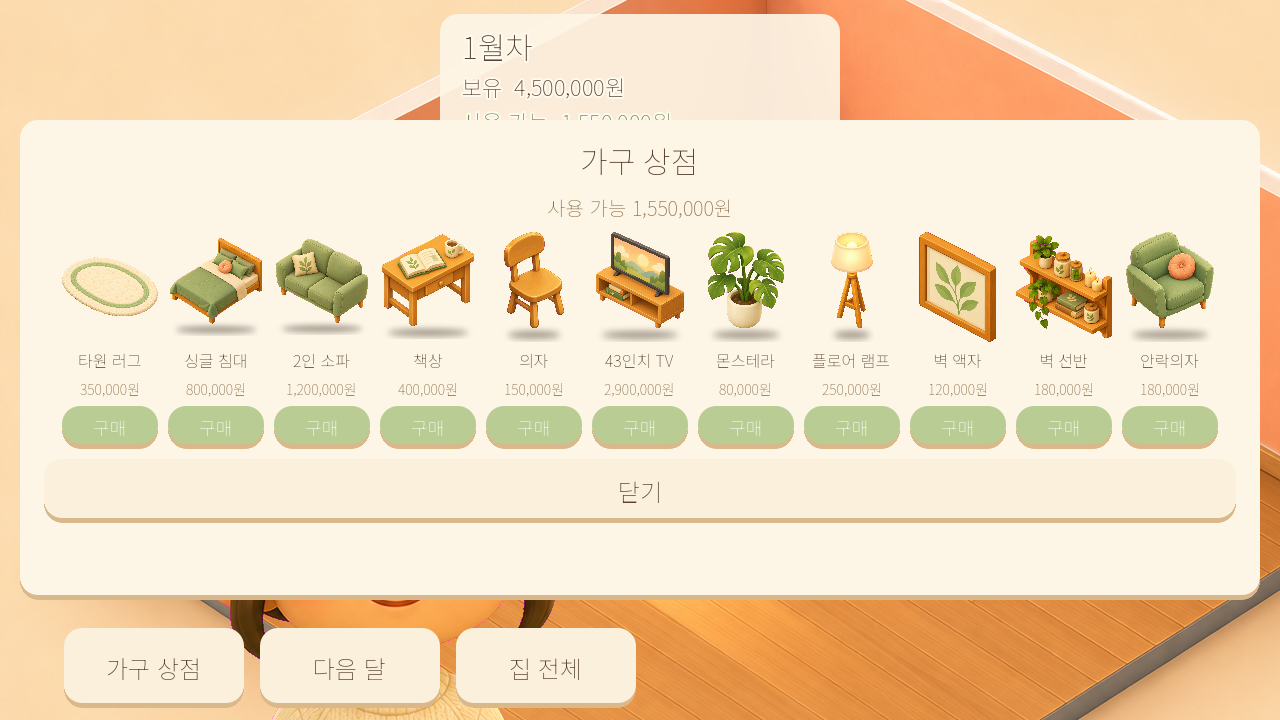
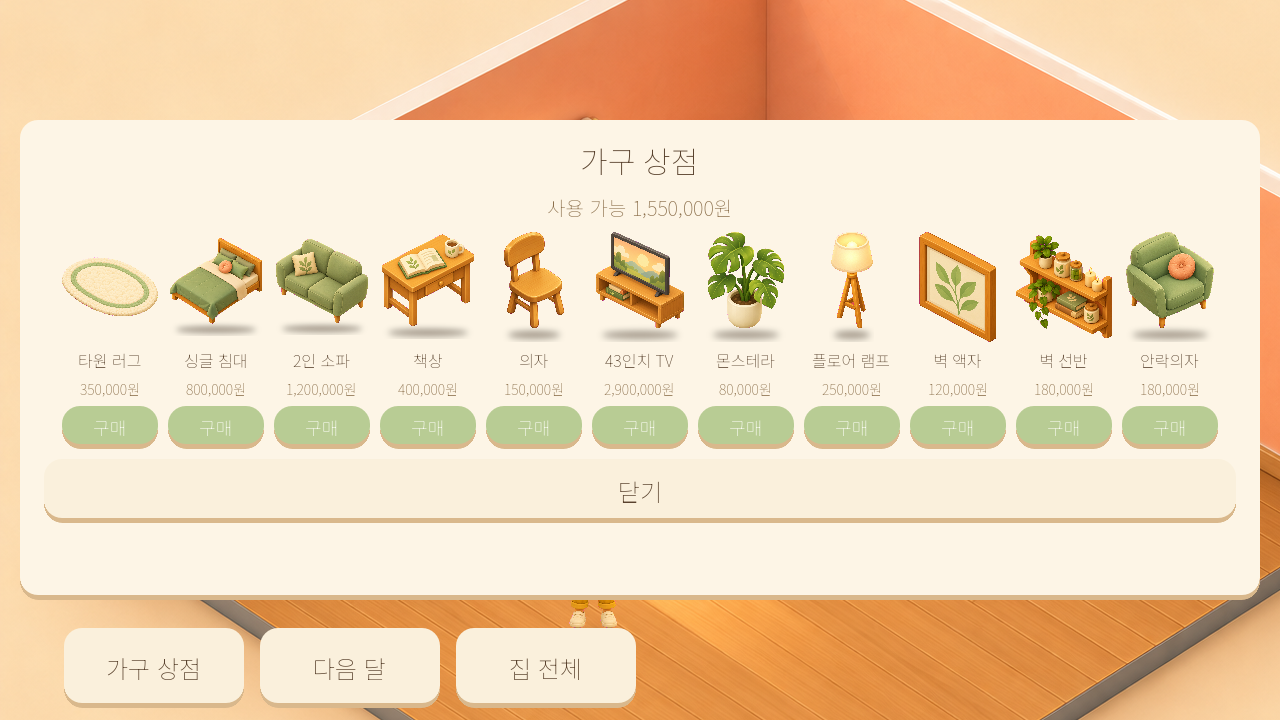
배치 완성: TextureRect expand_mode 버그 수정(원본크기로 렌더되던 것 → 슬롯 스케일 적용) + 슬롯 재설계(액자 침대위/선반 HUD하단/캐릭터 전면중앙/좌벽그룹 착지 보정) + 상점 열때 HUD 숨김 — 전체 가구 배치 비전 검증 6/6 PASS

diff --git a/game/tools/build_gpt_sprites.py b/game/tools/build_gpt_sprites.py
@@ -24,21 +24,21 @@ ROOM_W_PX, ROOM_H_PX = 1346, 1046  # empty 방 bbox 크기
 # id: (name, grid_w, grid_h, price, slot_x, slot_y, layer, shadow)
 # slot = 방 bbox 기준 분수 (앵커: 가구 바닥 중앙). layer: floor(러그) < normal < wall
 SLOTS = {
-    "rug_oval":       ("타원 러그", 6, 4, 350_000, 0.44, 0.62, "floor", False),
+    "rug_oval":       ("타원 러그", 6, 4, 350_000, 0.40, 0.68, "floor", False),
     "bed_single":     ("싱글 침대", 4, 8, 800_000, 0.62, 0.63, "normal", True),
-    "sofa_two":       ("2인 소파", 6, 3, 1_200_000, 0.20, 0.56, "normal", True),
-    "desk_small":     ("책상", 5, 2, 400_000, 0.46, 0.40, "normal", True),
+    "sofa_two":       ("2인 소파", 6, 3, 1_200_000, 0.15, 0.58, "normal", True, 0.85),
+    "desk_small":     ("책상", 5, 2, 400_000, 0.46, 0.42, "normal", True),
     "chair_basic":    ("의자", 2, 2, 150_000, 0.49, 0.47, "normal", True),
-    "tv_43":          ("43인치 TV", 4, 2, 2_900_000, 0.83, 0.50, "normal", True),
-    "plant_monstera": ("몬스테라", 2, 2, 80_000, 0.09, 0.50, "normal", True),
-    "floor_lamp":     ("플로어 램프", 2, 2, 250_000, 0.70, 0.50, "normal", True),
-    "picture_frame":  ("벽 액자", 2, 2, 120_000, 0.42, 0.20, "wall", False),
-    "wall_shelf":     ("벽 선반", 4, 1, 180_000, 0.56, 0.13, "wall", False),
-    "armchair":       ("안락의자", 2, 2, 180_000, 0.27, 0.46, "normal", True),
+    "tv_43":          ("43인치 TV", 4, 2, 2_900_000, 0.85, 0.44, "normal", True),
+    "plant_monstera": ("몬스테라", 2, 2, 80_000, 0.12, 0.46, "normal", True),
+    "floor_lamp":     ("플로어 램프", 2, 2, 250_000, 0.08, 0.66, "normal", True, 0.85),
+    "picture_frame":  ("벽 액자", 2, 2, 120_000, 0.72, 0.26, "wall", False),
+    "wall_shelf":     ("벽 선반", 4, 1, 180_000, 0.60, 0.32, "wall", False),
+    "armchair":       ("안락의자", 2, 2, 180_000, 0.36, 0.68, "normal", True),
 }
 
 # 캐릭터 (구매 아님, 상시 배치)
-CHAR = {"c_idle": (0.13, 0.60)}
+CHAR = {"c_idle": (0.45, 0.80)}
 
 
 def keyout_magenta(src_path):
@@ -81,13 +81,15 @@ os.makedirs(r'D:/works/realestate/game/assets/concept_room', exist_ok=True)
 # 방 배경 복사 (Godot 임포트용)
 Image.open(os.path.join(SRC, 'room_empty.png')).save(r'D:/works/realestate/game/assets/concept_room/room_empty.png')
 
-for fid, (name, gw, gh, price, sx, sy, layer, shadow) in SLOTS.items():
+for fid, slot_def in SLOTS.items():
+    name, gw, gh, price, sx, sy, layer, shadow = slot_def[:8]
+    scl = slot_def[8] if len(slot_def) > 8 else 1.0
     img = keyout_magenta(os.path.join(SRC, f'f_{fid}.png'))
     if shadow:
         img = bake_shadow(img)
     img.save(os.path.join(OUT, f'f_{fid}.png'))
     # 화면 폭: (gw+gh) 대각 성분 × 셀당 px × 등각 보정 0.35
-    width_px = int((gw + gh) * PX_PER_CELL * 0.35)
+    width_px = int((gw + gh) * PX_PER_CELL * 0.35 * scl)
     meta["items"][fid] = {
         "name": name, "price": price, "grid": [gw, gh],
         "slot": [sx, sy], "layer": layer, "width_px": width_px,
@@ -100,7 +102,7 @@ for cid, (sx, sy) in CHAR.items():
     img = bake_shadow(keyout_magenta(os.path.join(SRC, f'{cid}.png')), 0.6)
     img.save(os.path.join(OUT, f'{cid}.png'))
     meta.setdefault("characters", {})[cid] = {
-        "slot": [sx, sy], "width_px": int(PX_PER_CELL * 1.3),
+        "slot": [sx, sy], "width_px": int(PX_PER_CELL * 0.95),
         "sprite": f"res://assets/gpt_sprites/{cid}.png"}
     print(cid, img.size)
 
